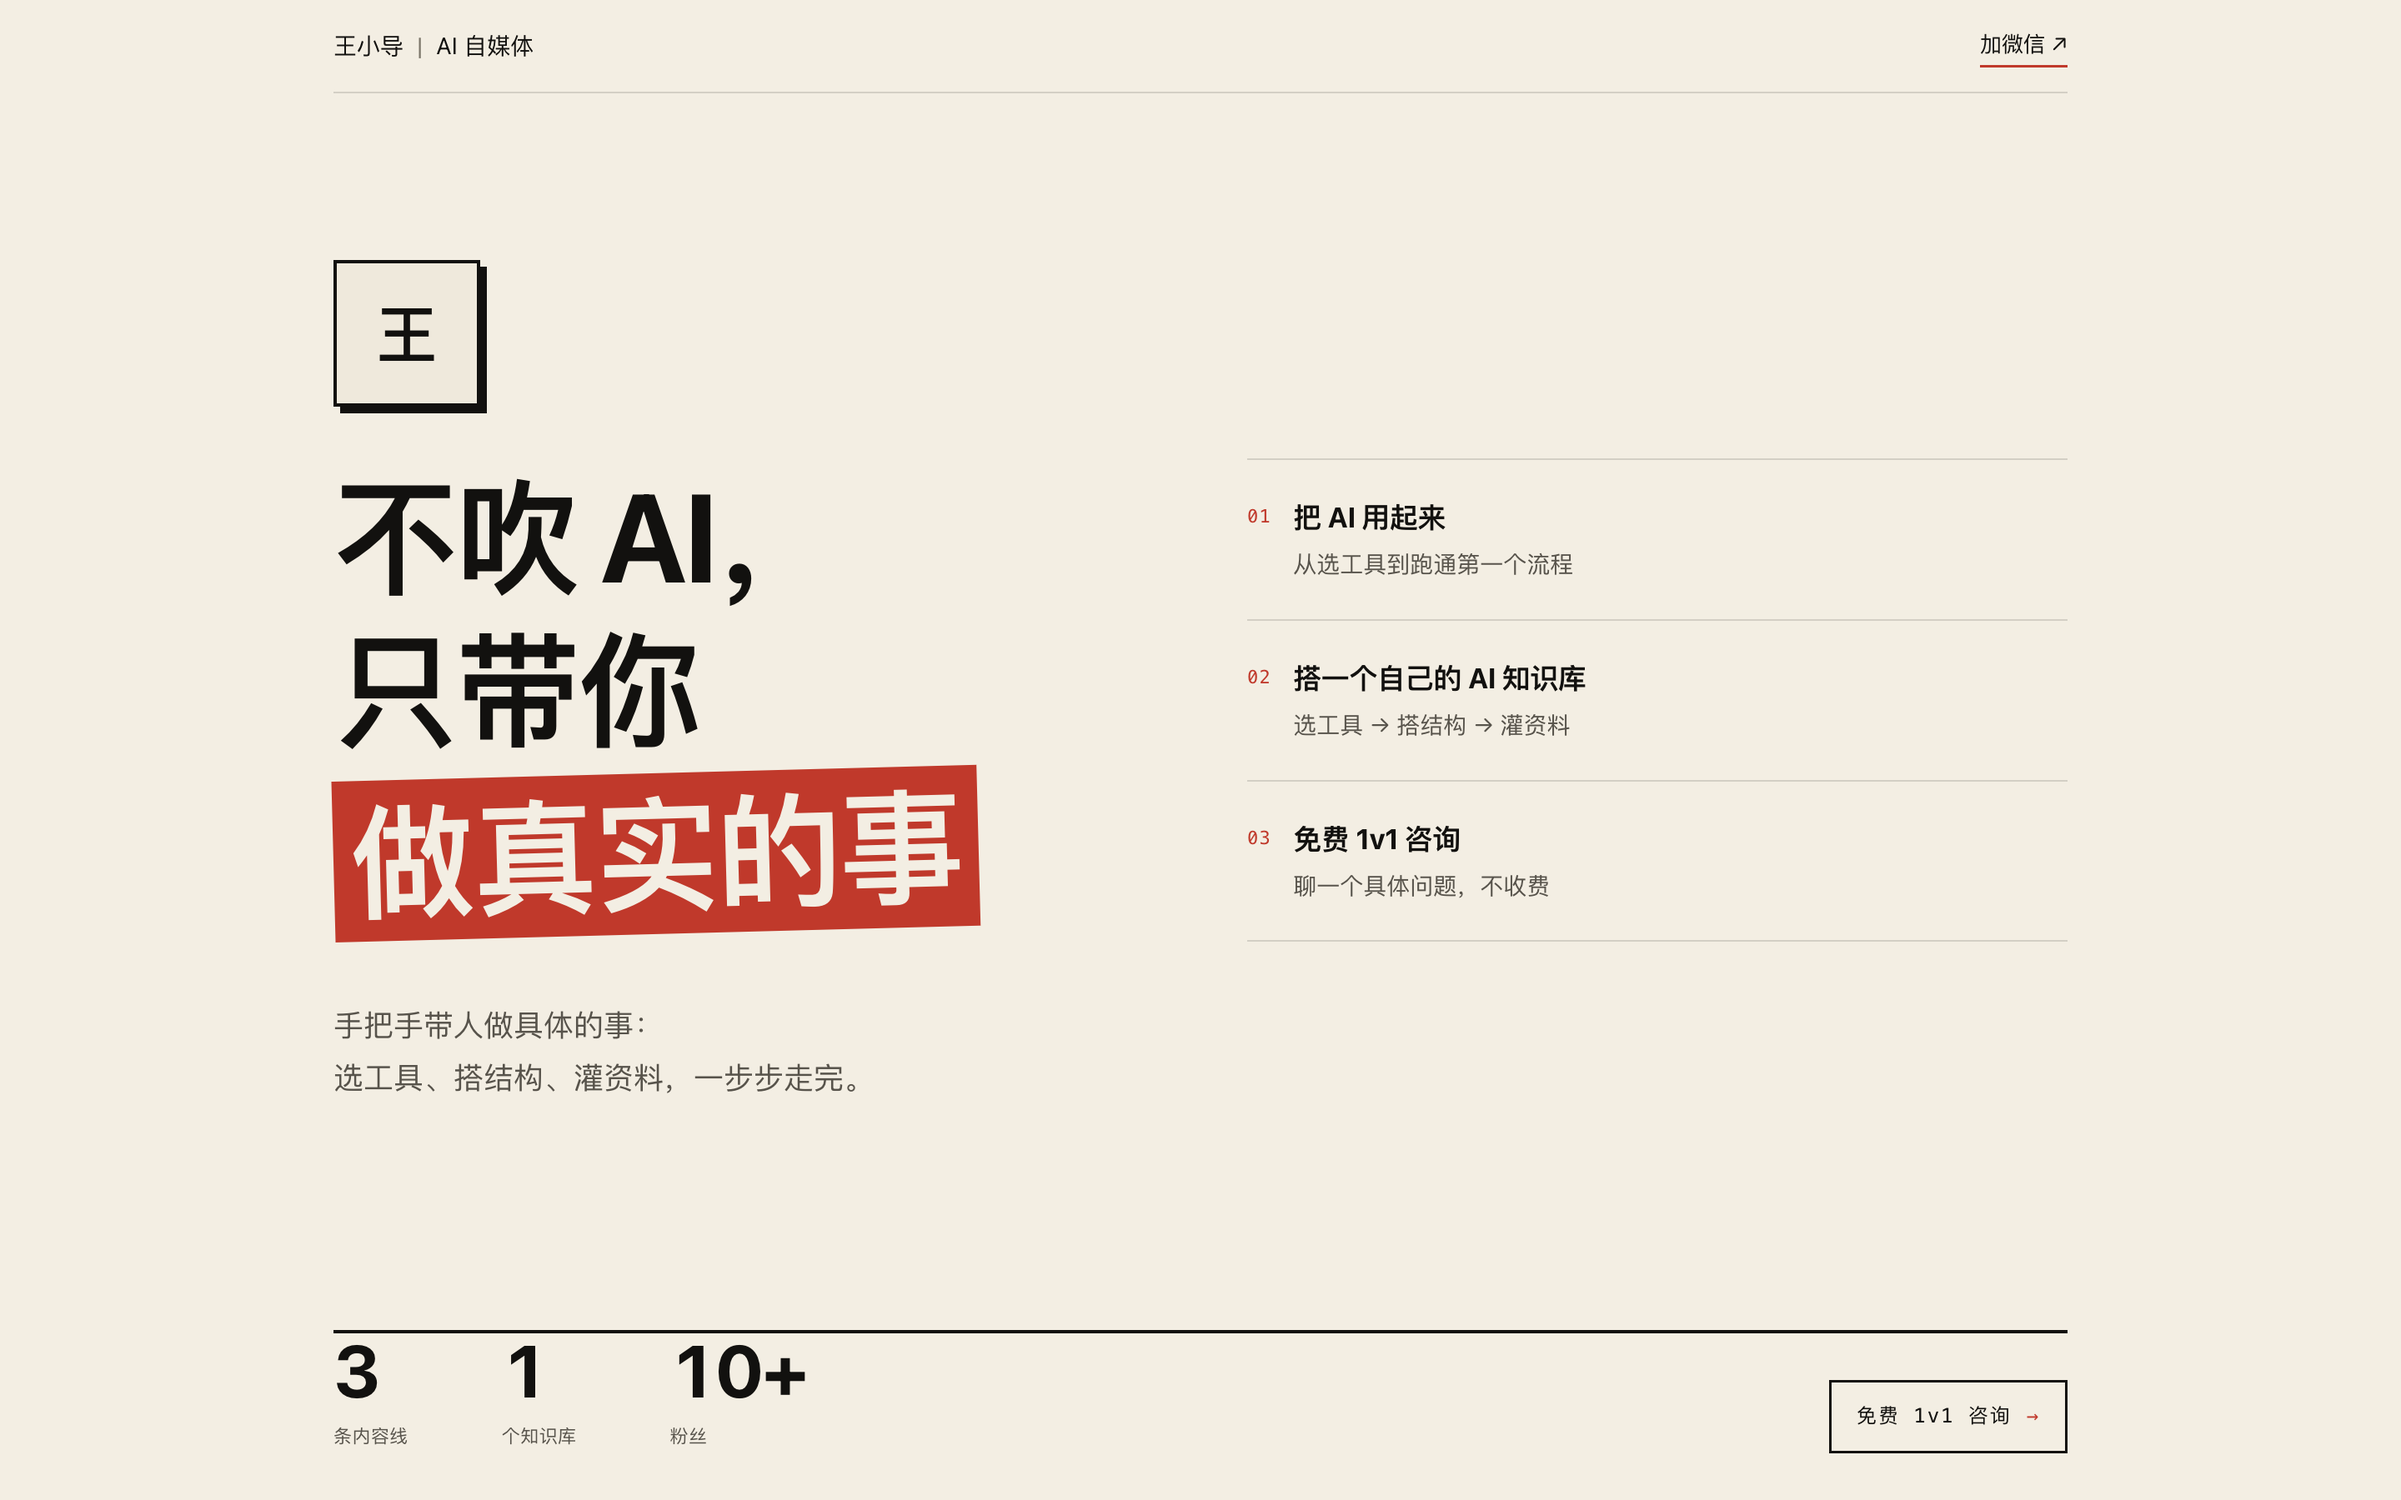
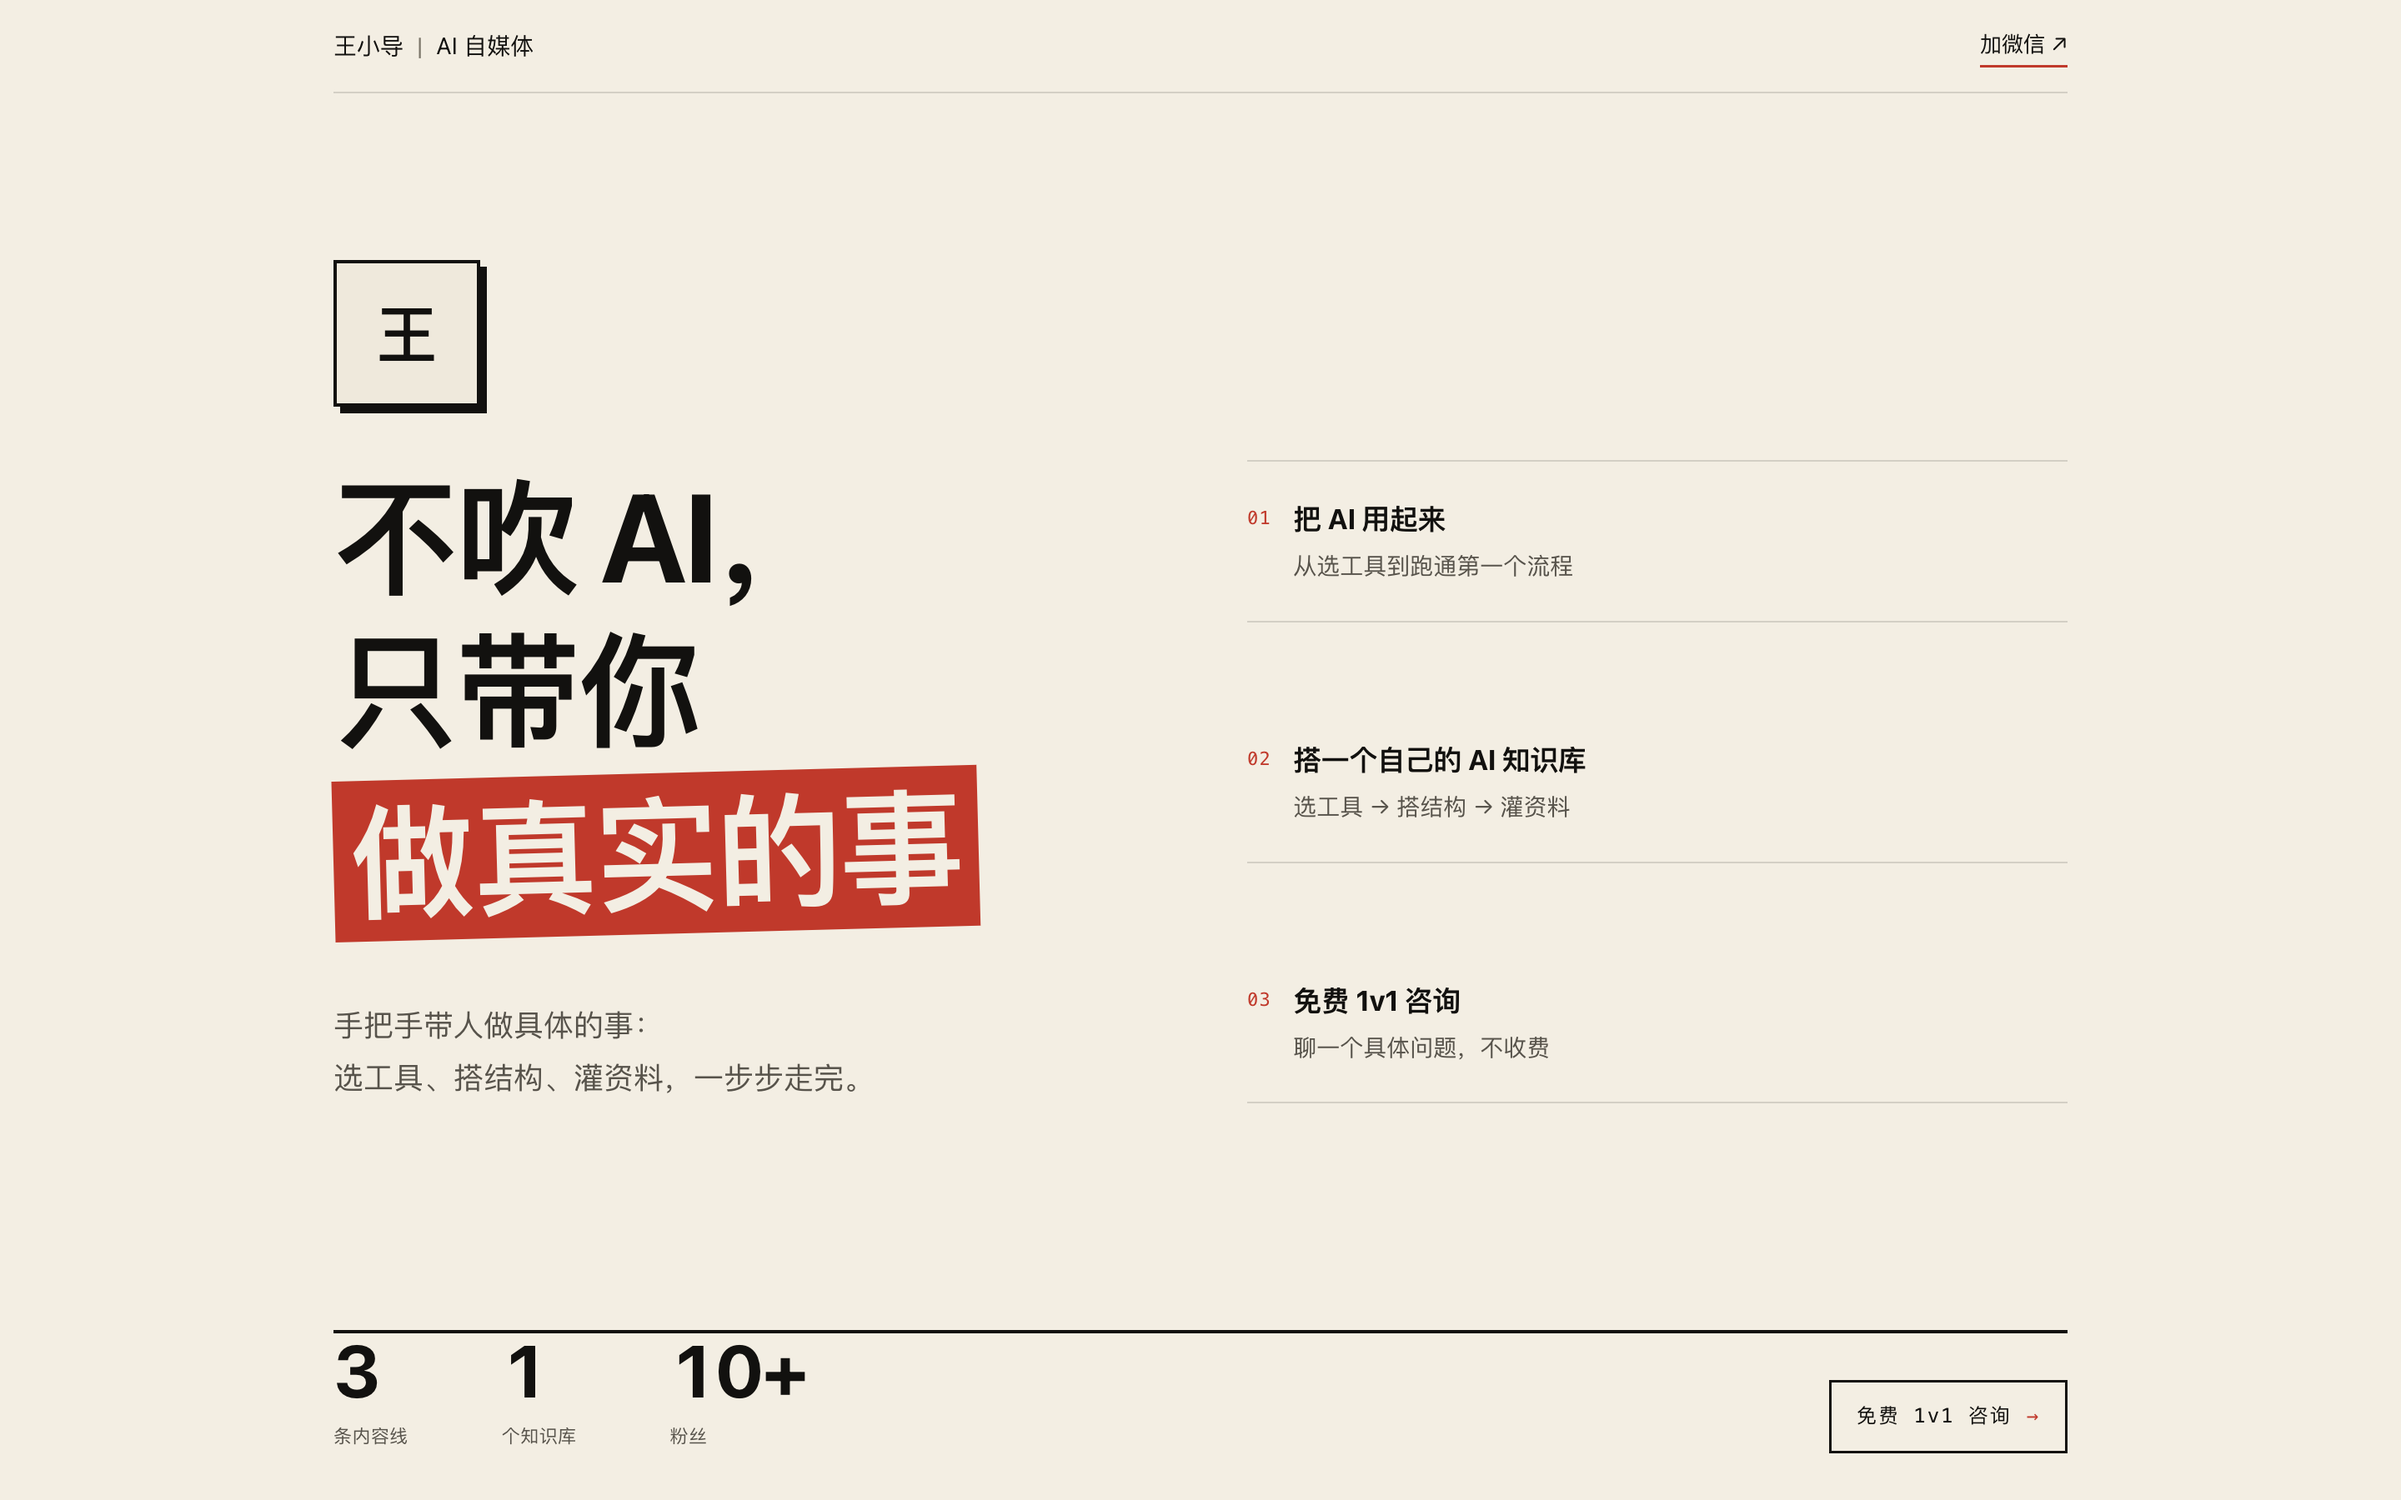
UI 复审二轮：首屏右栏撑满、卡片数字降级、咨询区对比度达标、手机 CTA 通栏

Changed region(s): [[0.5312, 0.4356, 0.6562, 0.5911], [0.5312, 0.6533, 0.6562, 0.7156], [0.5312, 0.3422, 0.6562, 0.4044]]

diff --git a/index.html b/index.html
@@ -112,6 +112,7 @@
     display:flex;gap:13px;padding:14px 0;
     border-bottom:1px solid var(--line);line-height:1.45;
   }
+  .can li:last-child{border-bottom:0}
   .can li .no{
     font-family:var(--mono);font-size:11px;font-style:normal;letter-spacing:.06em;
     color:var(--red);flex:none;padding-top:4px;
@@ -128,10 +129,10 @@
   .strip div + div{border-left:2px solid var(--ink);padding-left:10px}
   .strip div:first-child{padding-right:10px}
   .stamp{
-    display:inline-flex;align-items:center;gap:9px;
-    margin-top:26px;min-height:44px;padding:0 15px;
+    display:flex;align-items:center;justify-content:space-between;gap:9px;
+    width:100%;margin-top:26px;min-height:48px;padding:0 16px;
     border:1.5px solid var(--ink);
-    font-family:var(--mono);font-size:12px;letter-spacing:.08em;
+    font-family:var(--mono);font-size:13px;letter-spacing:.08em;
     transition:background .18s linear,color .18s linear;
     animation:stamp .4s .5s cubic-bezier(.16,1,.3,1) both;
   }
@@ -139,7 +140,7 @@
   .stamp:hover,.stamp:focus-visible{background:var(--ink);color:var(--paper)}
   .stamp:hover .arr,.stamp:focus-visible .arr{color:var(--paper)}
   @keyframes stamp{
-    from{transform:scale(1.12);opacity:0;border-color:transparent}
+    from{transform:scale(1.08);opacity:0;border-color:transparent}
     to{transform:scale(1);opacity:1;border-color:var(--ink)}
   }
 
@@ -202,10 +203,10 @@
   }
   .flow em{color:var(--red);font-style:normal;font-size:12px}
   .big{
-    font-size:clamp(42px,11vw,60px);font-weight:700;line-height:1;
-    letter-spacing:-.04em;font-variant-numeric:tabular-nums;margin-top:12px;
+    font-size:clamp(32px,8vw,42px);font-weight:700;line-height:1;
+    letter-spacing:-.03em;font-variant-numeric:tabular-nums;margin-top:14px;
   }
-  .big small{font-size:13px;font-weight:400;color:var(--gray);letter-spacing:0;margin-left:6px}
+  .big small{font-size:12.5px;font-weight:400;color:var(--gray);letter-spacing:0;margin-left:7px}
 
   @media (hover:hover) and (pointer:fine){
     .card:hover{transform:translate(6px,6px);box-shadow:0 0 0 var(--ink)}
@@ -248,8 +249,8 @@
     letter-spacing:-.03em;margin-top:18px;
   }
   .contact .note{
-    font-size:15px;line-height:1.85;margin-top:20px;
-    color:rgba(243,238,227,.9);max-width:30em;
+    font-size:15px;line-height:1.85;margin-top:24px;
+    color:var(--paper);max-width:30em;
   }
   .copy{
     display:inline-flex;align-items:center;justify-content:center;gap:8px;
@@ -301,13 +302,21 @@
       align-content:center;
       display:grid;
       grid-template-columns:1fr 1fr;
+      grid-template-rows:auto auto auto;
       column-gap:56px;
-      align-items:center;
+      align-items:start;
     }
+    .hero-id{grid-column:1;grid-row:1}
+    .hero-main h1{grid-column:1;grid-row:2}
+    .lede{grid-column:1;grid-row:3}
     h1{font-size:clamp(52px,5.2vw,80px)}
     .lede{font-size:18px;margin-top:34px;max-width:none}
-    .can{grid-column:2;grid-row:1 / span 2;align-self:end;margin-top:0;max-width:none}
-    .can li{padding:22px 0}
+    .can{
+      grid-column:2;grid-row:2 / 4;align-self:stretch;margin-top:0;
+      display:flex;flex-direction:column;justify-content:space-between;
+    }
+    .can li{padding:22px 0;border-bottom:1px solid var(--line);flex:none}
+    .can li:last-child{border-bottom:1px solid var(--line)}
     .can li b{font-size:17px}
     .can li .sub{font-size:14px;margin-top:5px}
     .hero-foot{padding-top:36px}
@@ -322,7 +331,10 @@
       display:block;font-family:var(--mono);font-size:11px;
       color:var(--gray);margin-top:8px;letter-spacing:.02em;
     }
-    .stamp{margin-top:0}
+    .stamp{
+      width:auto;margin-top:0;justify-content:flex-start;
+      min-height:44px;padding:0 15px;font-size:12px;
+    }
     .band{display:none}
     .sec-head{margin-bottom:32px}
     .sec-head h2{font-size:32px}
